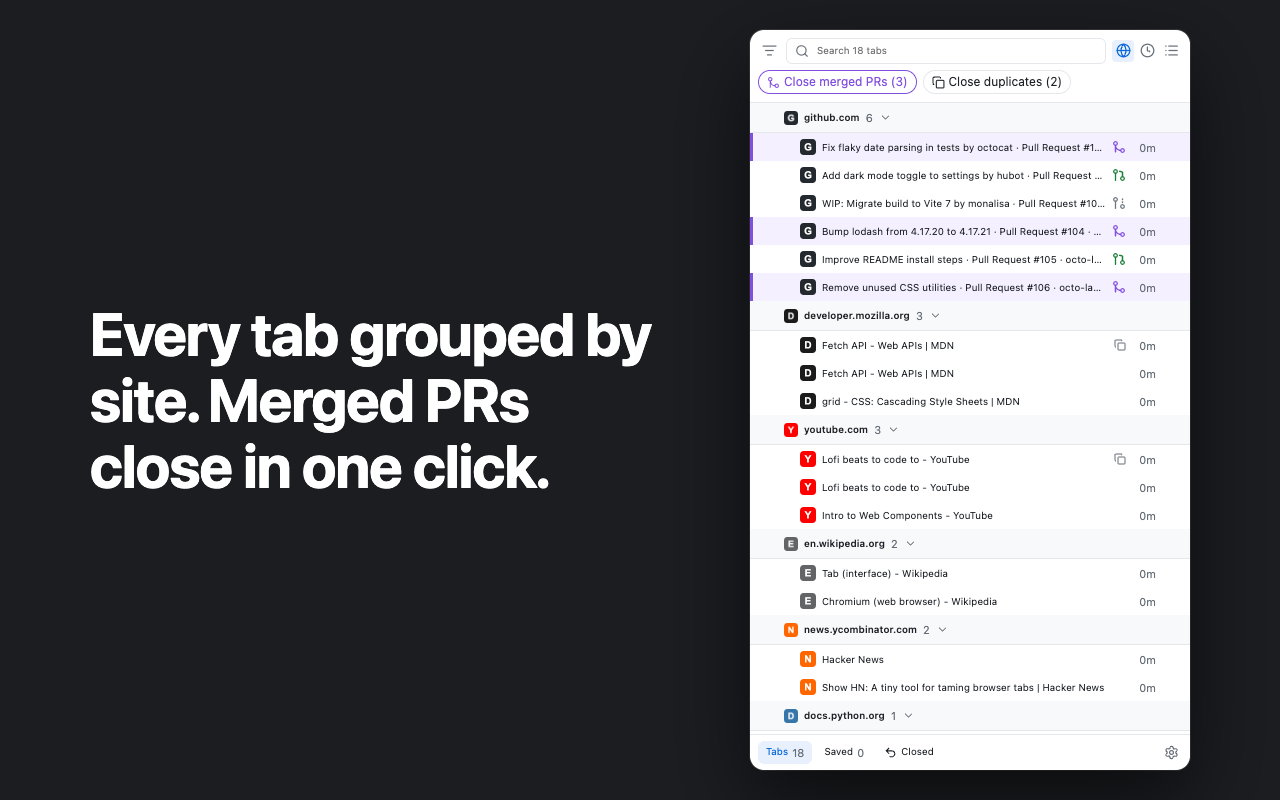
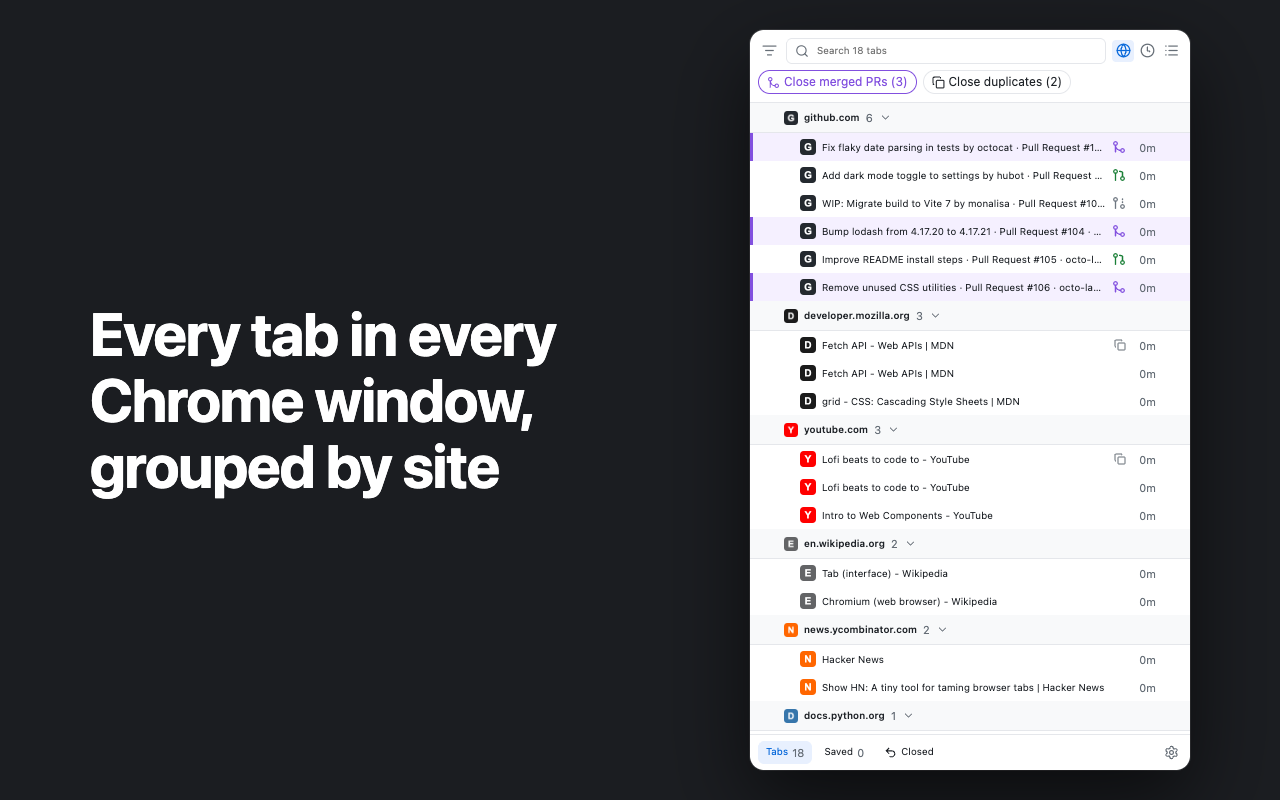
docs(store): say tabs, and that it covers every Chrome window
Store summary, description and screenshot headline now describe closing merged PR tabs, not PRs, and name the all-windows view.

Claude-Session-Id: 8d49c7a4-60e7-4bb0-99ef-23d8909b0f6b

Changed region(s): [[0.0625, 0.375, 0.5312, 0.625]]

diff --git a/store/listing.md b/store/listing.md
@@ -7,7 +7,7 @@ Paste these into the Developer Dashboard. Images are in this folder.
 **Name:** Tab Triage (from the manifest)
 
 **Summary** (manifest description, max 132 chars):
-Group, sort and bulk-close tabs. Knows when your PRs merged.
+Group, sort and bulk-close tabs from every Chrome window. Spots tabs of merged GitHub PRs.
 
 **Category:** Tools
 
@@ -15,16 +15,16 @@ Group, sort and bulk-close tabs. Knows when your PRs merged.
 
 **Description:**
 
-Too many tabs? Tab Triage puts every open tab in a side panel, grouped by site, so you can see what you have and close what you are done with.
+Too many tabs? Tab Triage puts every open tab, from every Chrome window, in one side panel, grouped by site. See what you have open and close the tabs you are done with.
 
-- Group by site or by last viewed. Search across every window.
+- Tabs from all your Chrome windows in one list. Group by site or by last viewed, and search them all.
 - Select with click, Shift-click or Cmd-click, then close in one go.
-- GitHub pull requests show their state. One click closes every merged PR tab.
+- Tabs of GitHub pull requests show the PR's state: open, draft or merged. One click closes the tabs of merged PRs. Tab Triage only manages your tabs; it never changes anything on GitHub.
 - One click closes duplicate tabs.
-- Filter by what a page shows, on any site. Point at an element, like a CRM status that reads "Open sale lead", and see every tab in that state.
-- Filters also match site, URL, title or days not viewed. Pin a filter to keep it as a button.
+- Filter by what a page shows, on any site. Point at an element, like a CRM status that reads "Open sale lead", and find every open tab in that state.
+- Filter tabs by site, URL, title or days not viewed. Pin a filter to keep it as a button.
 - Save tabs for later. Optional rules close stale tabs for you.
-- Cmd-Z puts closed tabs back.
+- Cmd-Z reopens the tabs you just closed.
 
 Open it with the toolbar icon or Alt+Shift+T.
 
